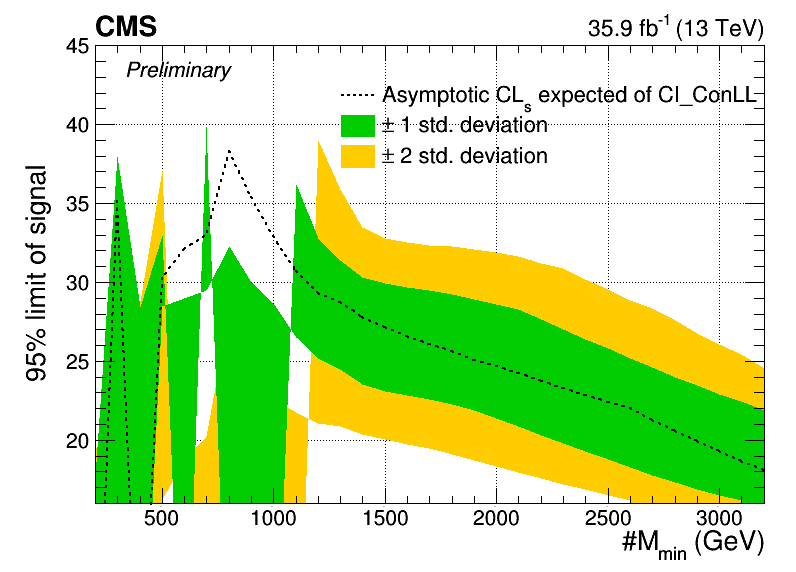
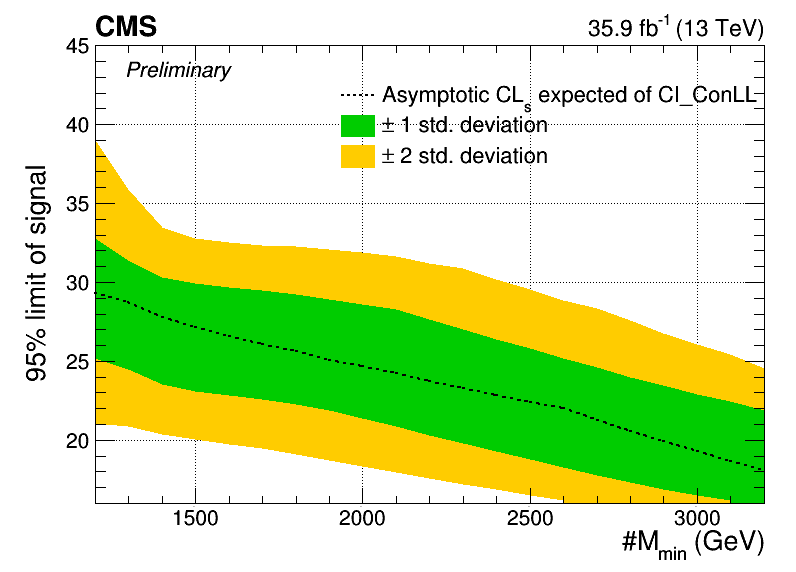
update on compare methods

diff --git a/plotLimitVsMmin.py b/plotLimitVsMmin.py
@@ -62,7 +62,7 @@ def getCross(Mmin, model, lambdas, helicity):
 # plot limit vs Mmin
 def plotLimits(model, lambdas, helicity):
 
-    Mmin = [200 + i * 100 for i in range(31)]
+    Mmin = [1200 + i * 100 for i in range(21)]
     N = len(Mmin)
     yellow = TGraph(2*N)    # yellow band
     green = TGraph(2*N)     # green band
